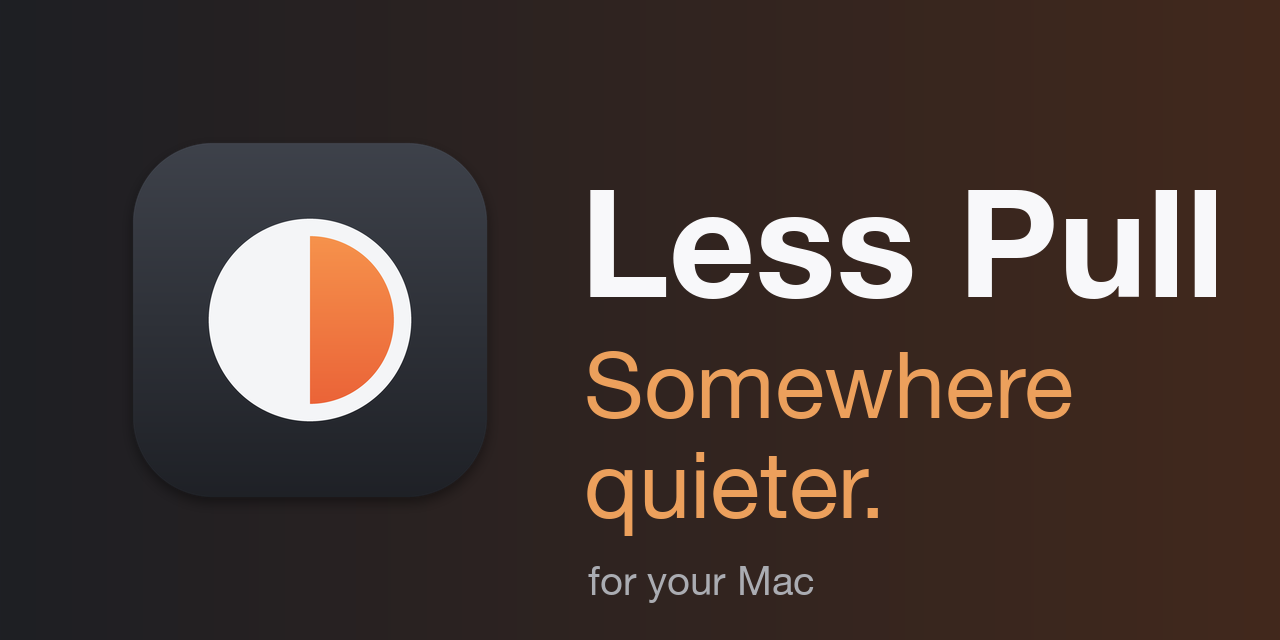
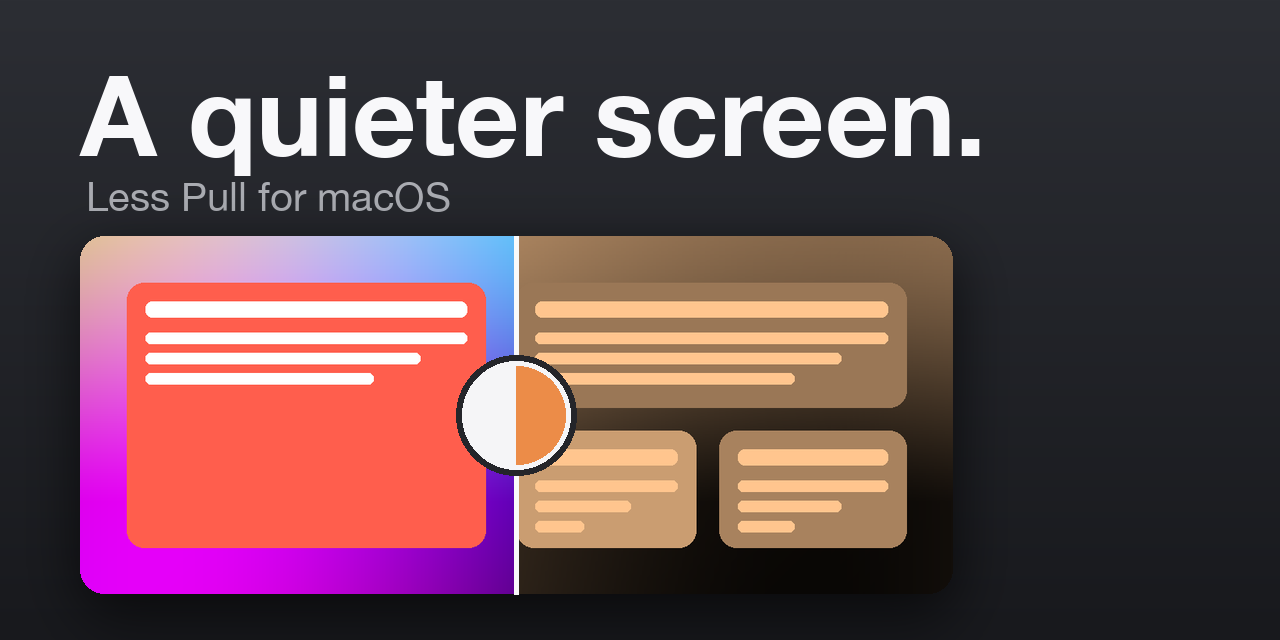
A quieter screen: README opening and a social preview that shows the app's effect

diff --git a/docs/assets/src/social-preview.py b/docs/assets/src/social-preview.py
@@ -1,0 +1,53 @@
+# Social preview: one screen, left in color, right as Less Pull shows it (grayscale with
+# some warmth), computed with the same matrix as Source/WarmthCurve.h. Drawn, not a photo.
+import math, sys
+from PIL import Image, ImageDraw, ImageFont, ImageFilter
+import numpy as np
+out = sys.argv[1]; W, H = 1280, 640
+def gains(s):
+    s = max(0, min(3, s))
+    if s <= 1: return [1, 1 - .45 * s, 1 - .88 * s]
+    if s <= 2: return [1, .55 * (.20 / .55) ** (s - 1), .12 * (.005 / .12) ** (s - 1)]
+    r = 3 - s; return [1, .20 * r ** (-math.log(.20 / .55)), .005 * r ** (-math.log(.005 / .12))]
+def matrix(s, gray=True):
+    g = gains(s); luma = [.30, .59, .11]; mix = 1 if gray else s / 3
+    return np.array([[((1 - mix) * (1 if r == c else 0) + mix * luma[c]) * g[r] for c in range(3)] for r in range(3)])
+# a vivid "screen": wallpaper gradient plus app-like cards
+sw, sh = 1120, 460
+y, x = np.mgrid[0:sh, 0:sw]
+wall = np.stack([120 + 110 * np.sin(x / 260 + 1.2), 80 + 120 * np.cos(y / 180 + .4), 150 + 100 * np.sin((x + y) / 320)], -1).clip(0, 255).astype('uint8')
+screen = Image.fromarray(wall, 'RGB').convert('RGBA')
+d = ImageDraw.Draw(screen)
+cards = [((60, 60, 520, 400), (255, 94, 77)), ((560, 60, 1060, 220), (66, 181, 255)), ((560, 250, 790, 400), (255, 203, 60)), ((820, 250, 1060, 400), (84, 220, 120))]
+for (x0, y0, x1, y1), col in cards:
+    d.rounded_rectangle((x0, y0, x1, y1), 22, fill=col)
+    d.rounded_rectangle((x0 + 24, y0 + 24, x1 - 24, y0 + 44), 8, fill=(255, 255, 255, 230))
+    for i in range(3): d.rounded_rectangle((x0 + 24, y0 + 64 + i * 26, x1 - 24 - i * 60, y0 + 78 + i * 26), 6, fill=(255, 255, 255, 150))
+arr = np.asarray(screen.convert('RGB')).astype(float)
+right = arr[:, sw // 2:] @ matrix(0.5, True).T  # grayscale with a light amber, an everyday setting
+arr[:, sw // 2:] = right.clip(0, 255)
+screen = Image.fromarray(arr.astype('uint8'), 'RGB')
+# backdrop, headline, screen with rounded corners and a shadow
+g = np.linspace(0, 1, H)[:, None]; top, bot = np.array([44, 46, 52]), np.array([24, 25, 29])
+im = Image.fromarray((top * (1 - g) + bot * g)[:, None, :].repeat(W, 1).reshape(H, W, 3).astype('uint8'), 'RGB').convert('RGBA')
+def font(size, bold=False):
+    for path in ['/System/Library/Fonts/HelveticaNeue.ttc', '/System/Library/Fonts/Helvetica.ttc']:
+        try: return ImageFont.truetype(path, size, index=1 if bold else 0)
+        except Exception: pass
+    return ImageFont.load_default()
+d = ImageDraw.Draw(im)
+d.text((80, 46), 'A quieter screen.', font=font(112, True), fill=(248, 248, 250))
+d.text((86, 172), 'Less Pull for macOS', font=font(40), fill=(170, 172, 178))
+scale = 0.78; sw2, sh2 = int(sw * scale), int(sh * scale); sx, sy = 80, 236
+mask = Image.new('L', (sw2, sh2), 0); ImageDraw.Draw(mask).rounded_rectangle((0, 0, sw2 - 1, sh2 - 1), 24, fill=255)
+shadow = Image.new('RGBA', im.size, (0, 0, 0, 0)); ImageDraw.Draw(shadow).rounded_rectangle((sx, sy + 18, sx + sw2, sy + sh2 + 18), 24, fill=(0, 0, 0, 170)); shadow = shadow.filter(ImageFilter.GaussianBlur(28)); im = Image.alpha_composite(im, shadow)
+im.paste(screen.resize((sw2, sh2), Image.LANCZOS), (sx, sy), mask)
+# the seam and the half-circle mark on it
+d = ImageDraw.Draw(im); cx = sx + sw2 // 2
+d.rectangle((cx - 2, sy, cx + 2, sy + sh2), fill=(250, 250, 250, 235))
+r = 54; cy = sy + sh2 // 2
+d.ellipse((cx - r - 6, cy - r - 6, cx + r + 6, cy + r + 6), fill=(36, 37, 42, 255))
+d.pieslice((cx - r, cy - r, cx + r, cy + r), 90, 270, fill=(245, 245, 247, 255))
+d.pieslice((cx - r, cy - r, cx + r, cy + r), 270, 450, fill=(236, 140, 72, 255))
+d.ellipse((cx - r, cy - r, cx + r, cy + r), outline=(245, 245, 247, 255), width=5)
+im.convert('RGB').save(out, optimize=True); print(out, im.size)

diff --git a/docs/assets/README.md b/docs/assets/README.md
@@ -5,6 +5,7 @@
 | `interfaces.png` | Two real screenshots of Less Pull 1.4.4 build 16, the menu-bar dropdown with its icon and the Settings window on General, cropped and placed side by side on a drawn backdrop (`src/menu-figures.py`) |
 | `exceptions.png` | Two real screenshots of the menu with the Exception for Finder and Exception for mubi.com submenus open, on a drawn backdrop |
 | `settings-tabs.png` | Four window captures of build 16 (Shortcuts, Apps, Websites, About) with example rules, placed on a drawn backdrop by `src/settings-figure.py` |
+| `social-preview.png` | The card GitHub shows in link previews: a drawn screen, color on the left and Less Pull's grayscale with a light amber on the right, computed with the app's own matrix (`src/social-preview.py`) |
 | `src/raw/*` | The original captures, untouched |
 | `hero-*.svg` | Animated illustration of one display changing with the app in front. It respects Reduce Motion |
 | `warmth-*.svg` | Illustration of Extra Warmth from Off to Red, in color and grayscale |

diff --git a/README.md b/README.md
@@ -12,7 +12,7 @@
   &nbsp;·&nbsp; <a href="docs/README.md">All docs</a>
 </p>
 
-**Somewhere quieter.** Less Pull is a small menu-bar app for macOS by [Jiri Arion Rose](https://jiriarion.com). It takes the color out of your screen, so it pulls at you less — a little like stepping out of a loud room into a still one. What matters is still there; it just stops shouting.
+**A quieter screen.** Less Pull is a small menu-bar app for macOS by [Jiri Arion Rose](https://jiriarion.com). It takes the color out of your screen, so it pulls at you less — a little like stepping out of a loud room into a still one. What matters is still there; it just stops shouting.
 
 Warmth is the second step: from a touch of amber all the way to red, it takes the blue out of the light and puts you back in charge of how your screen speaks to you. And because a few things truly need color, every app and every website can have its own settings.
 
